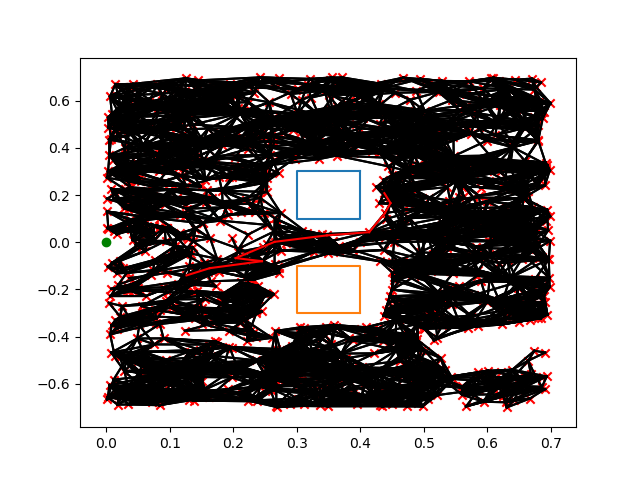
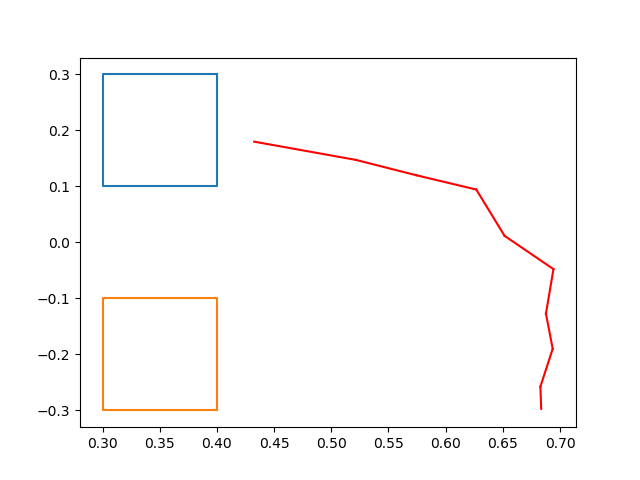
fixin

diff --git a/src/MotionPlanner.py b/src/MotionPlanner.py
@@ -173,7 +173,7 @@ def humanCost(current, neighbour):
             cost = True
     return cost
 
-def RRT():
+def RRT(): #more like PRM
     global graph, quat, start_point_robot
 
     start = Pose()
@@ -194,7 +194,7 @@ def RRT():
             graph[i].Link(j)
             graph[j].Link(i)
     os.system('clear')
-
+    global x
     if x:
         fig = plt.figure()
         for i in range(len(graph)):
@@ -296,22 +296,20 @@ def callback(data):
     print(si, ei)
     A = A_Star(si,ei)
     if (type(A) is not str):
-        # Set the robot speed (takes a value between 0 and 1)
         g_limb.set_joint_position_speed(.1)
-        # Send the robot arm to the joint angles in target_joint_angles, wait up to 2 seconds to finish
         for j in reversed(A):
             g_limb.move_to_joint_positions(j.angles, timeout=2)
-        if x:
+        if True:
             fig = plt.figure()
-            for i in range(0,len(graph)):
-                if i == 0:
-                    plt.scatter(graph[i].pose.position.x,graph[i].pose.position.y,c='g',marker='o')
-                else:
-                    plt.scatter(graph[i].pose.position.x,graph[i].pose.position.y,c='r',marker='x')
-                for j in range(0,len(graph[i].neighbours)):
-                    Lx = np.array([graph[i].pose.position.x,graph[graph[i].neighbours[j]].pose.position.x])
-                    Ly = np.array([graph[i].pose.position.y,graph[graph[i].neighbours[j]].pose.position.y])
-                    plt.plot(Lx,Ly,c='k')
+            # for i in range(0,len(graph)):
+            #     if i == 0:
+            #         plt.scatter(graph[i].pose.position.x,graph[i].pose.position.y,c='g',marker='o')
+            #     else:
+            #         plt.scatter(graph[i].pose.position.x,graph[i].pose.position.y,c='r',marker='x')
+            #     for j in range(0,len(graph[i].neighbours)):
+            #         Lx = np.array([graph[i].pose.position.x,graph[graph[i].neighbours[j]].pose.position.x])
+            #         Ly = np.array([graph[i].pose.position.y,graph[graph[i].neighbours[j]].pose.position.y])
+            #         plt.plot(Lx,Ly,c='k')
             for i in range(1,len(A)):
                 Lx = np.array([A[i-1].pose.position.x,A[i].pose.position.x])
                 Ly = np.array([A[i-1].pose.position.y,A[i].pose.position.y])

diff --git a/src/WayPoints.py b/src/WayPoints.py
@@ -16,7 +16,6 @@ from ahri_guidebot.msg import Coordinates
 rospy.init_node('WayPoints',anonymous=True)
 pub = rospy.Publisher('waypoint',Coordinates,queue_size=10)
 workspace = np.array([[0,0.7],[-0.7,0.7],[0,0.2]])
-(0.704238785359,0.709956638597,-0.00229009932359,0.00201493272073)
 start_point_robot = Point(0.0,0.0,0.1)
 start_point_human = Point(0.7,0,0.1)
 end_point_human = Point()
